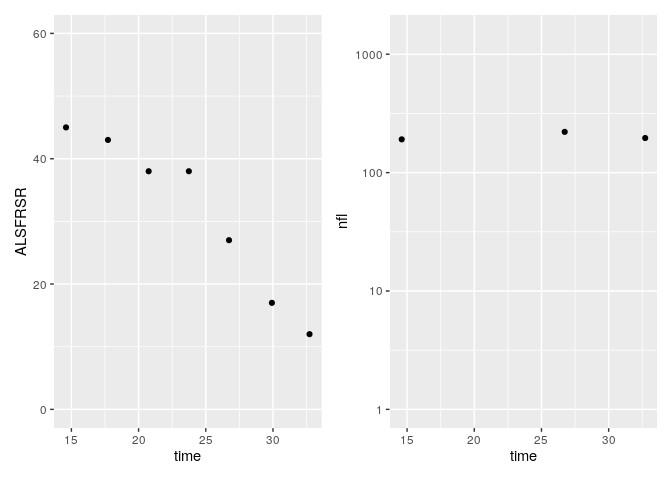
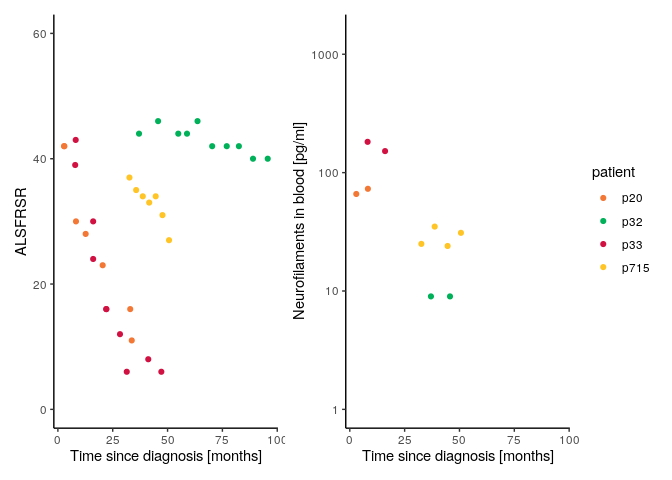
updated readme

diff --git a/README.md b/README.md
@@ -27,14 +27,31 @@ timepoints <- read_csv( "https://raw.githubusercontent.com/FelixTheStudent/ALS_c
 patients <- read_csv( "https://raw.githubusercontent.com/FelixTheStudent/ALS_clinical_trials/main/data/data_patientInfo.csv" )
 ```
 
-    #> Warning: Removed 4 rows containing missing values (geom_point).
+To illustrate how disease progression is correlated with our biomarker
+(blood levels of neurofilament light chain, measured at time of
+diagnosis), we visualize four selected patients:
+
+``` r
+patient_colors <- c("#00b159", "#ffc425", "#f37735", "#d11141");
+names(patient_colors) <- c("p32", "p715", "p20", "p33")
+
+
+df <- timepoints %>% filter(patient %in% c("p20", "p32", "p33", "p715" ))
+df %>% ggplot(aes(time, ALSFRSR, col=patient))+geom_point() + ylim(c(0, 60)) + 
+  scale_color_manual(values = patient_colors) + xlab("Time since diagnosis [months]")+
+  theme_classic()+
+df %>% ggplot(aes(time, nfl, col=patient))    +geom_point() + scale_y_log10(limits=c(1,1500)) +
+  scale_color_manual(values = patient_colors) + xlab("Time since diagnosis [months]")+
+  ylab("Neurofilaments in blood [pg/ml]")+ theme_classic() +
+  plot_layout(guides="collect")
+#> Warning: Removed 24 rows containing missing values (geom_point).
+```
 
 ![](README_files/figure-gfm/score_over_time-1.png)<!-- -->
 
-# Notes
+This enables prediction of disease progression, increasing statistical
+power in clinical ALS trials. More details can be found in our
+manuscript:
 
-You’ll still need to render `README.Rmd` regularly, to keep `README.md`
-up-to-date. `devtools::build_readme()` is handy for this. You could also
-use GitHub Actions to re-render `README.Rmd` every time you push. An
-example workflow can be found here:
-<https://github.com/r-lib/actions/tree/master/examples>.
+> Simon Witzel and Felix Frauhammer *et al.*, 2021 (manuscript
+> submitted)
